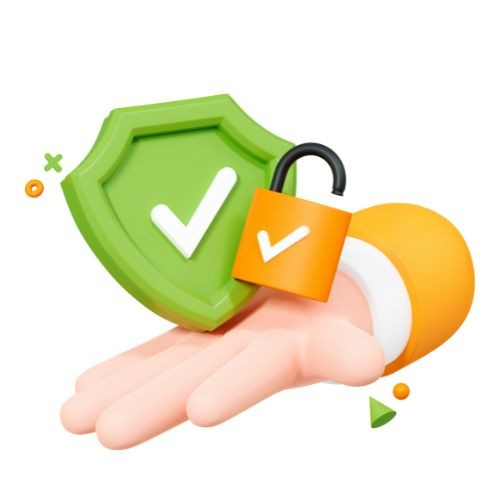
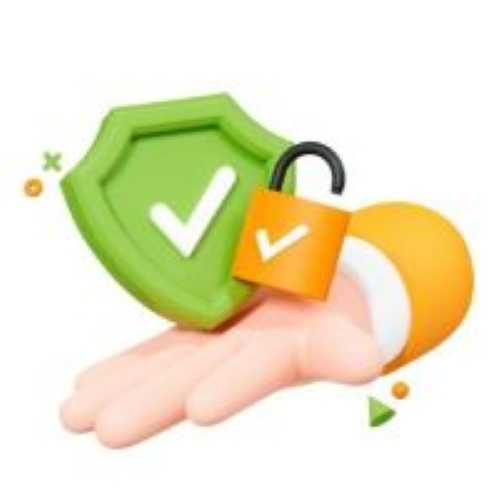
First upload

diff --git a/verify.html b/verify.html
@@ -98,7 +98,7 @@
                                     type="text"
                                     id="certificateId"
                                     class="form-control form-control-lg"
-                                    placeholder="Example : AVT-INT-2026-001">
+                                    placeholder="Please Write Certificate ID">
 
                             </div>
 
@@ -192,7 +192,7 @@
 
                             <img
                                 id="verifyImage"
-                                src="images/certificate-verification.svg"
+                                src="verify.jpg"
                                 class="img-fluid verify-image"
                                 alt="Certificate Verification">
 
@@ -204,7 +204,7 @@
                             id="rightTitle"
                             class="fw-bold text-center mb-3">
 
-                            Certificate Verified
+                            Certificate Verified Successfully
 
                         </h3>
 
@@ -619,7 +619,7 @@ navLinks.forEach((link) => {
 
 const certificates = {
 
-    "AVT-INT-2026-001": {
+    "AVT-INT-RK-101125": {
 
         name: "Rajeev Kharadi",
 
@@ -629,7 +629,11 @@ const certificates = {
 
         issued: "10 Apr 2026",
 
-        status: "Verified"
+        status: "Verified",
+
+        reference: "AVT/DMI/2025",
+
+        mode: "Remote"
 
     },
 
@@ -722,19 +726,19 @@ function showVerified(id) {
 
     document.getElementById("verifyImage").src =
 
-        "images/certificate-verification.svg";
+        "verify.jpg";
 
 
 
     document.getElementById("rightTitle").innerHTML =
 
-        "Certificate Verified";
+        "Certificate is Verified";
 
 
 
     document.getElementById("rightTitle").className =
 
-        "fw-bold text-success text-center mb-3";
+        "fw-medium text-success text-center mb-3";
 
 
 
@@ -764,7 +768,7 @@ function showVerified(id) {
 
 <h3 class="result-title success">
 
-Certificate Verified
+Verified
 
 </h3>
 
@@ -789,6 +793,15 @@ This certificate is authentic.
 </div>
 
 
+<div class="detail-item">
+
+<span>Reference No</span>
+
+<strong>${c.reference}</strong>
+
+</div>
+
+
 
 <div class="detail-item">
 
@@ -797,6 +810,7 @@ This certificate is authentic.
 <strong>${c.name}</strong>
 
 </div>
+
 
 
 
@@ -815,6 +829,15 @@ This certificate is authentic.
 <span>Duration</span>
 
 <strong>${c.duration}</strong>
+
+</div>
+
+
+<div class="detail-item">
+
+<span>Internship Mode</span>
+
+<strong>${c.mode}</strong>
 
 </div>
 

diff --git a/style.css b/style.css
@@ -5044,7 +5044,7 @@ transform:scale(1.05);
 
     font-size:clamp(2rem,5vw,3rem);
 
-    font-weight:700;
+    font-weight:500;
 
     color:#202124;
 
@@ -5274,9 +5274,9 @@ transform:scale(1.05);
 
     margin-top:25px;
 
-    font-size:30px;
+    font-size:40px;
 
-    font-weight:700;
+    font-weight:500;
 
     text-align:center;
 
